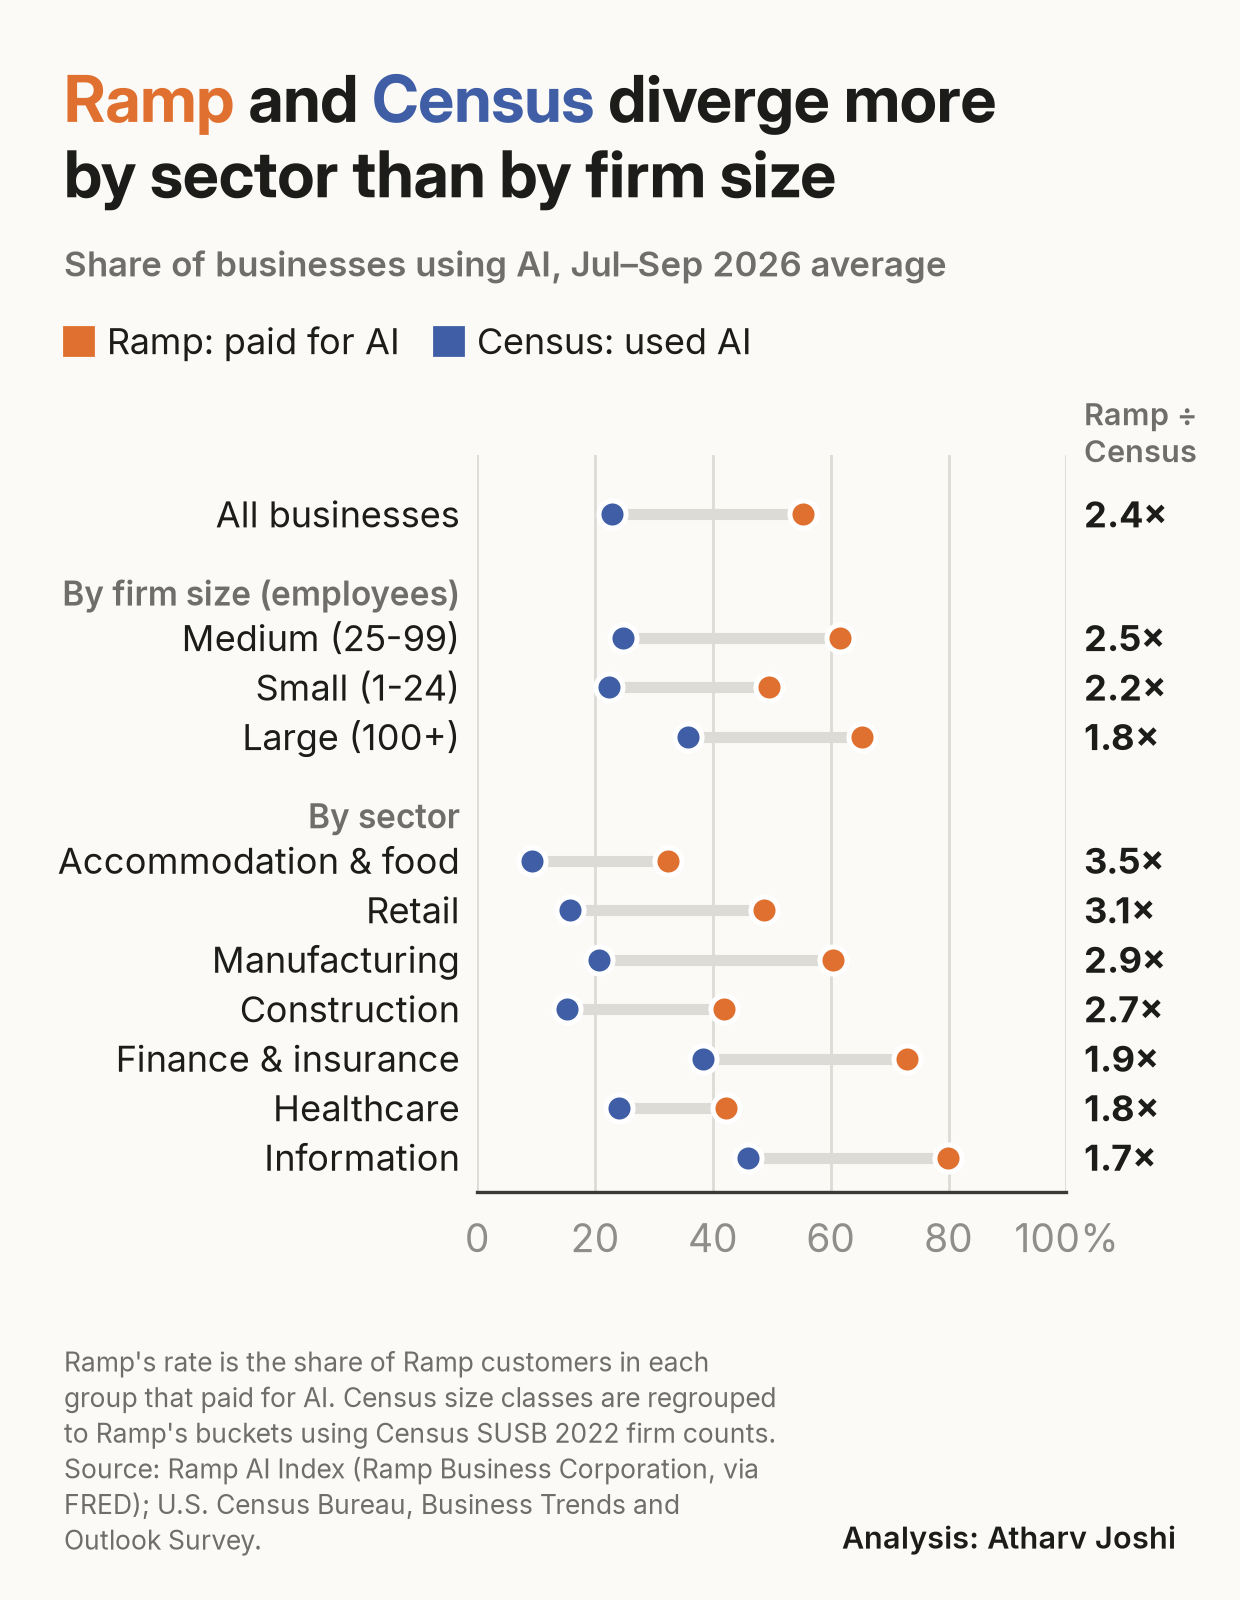
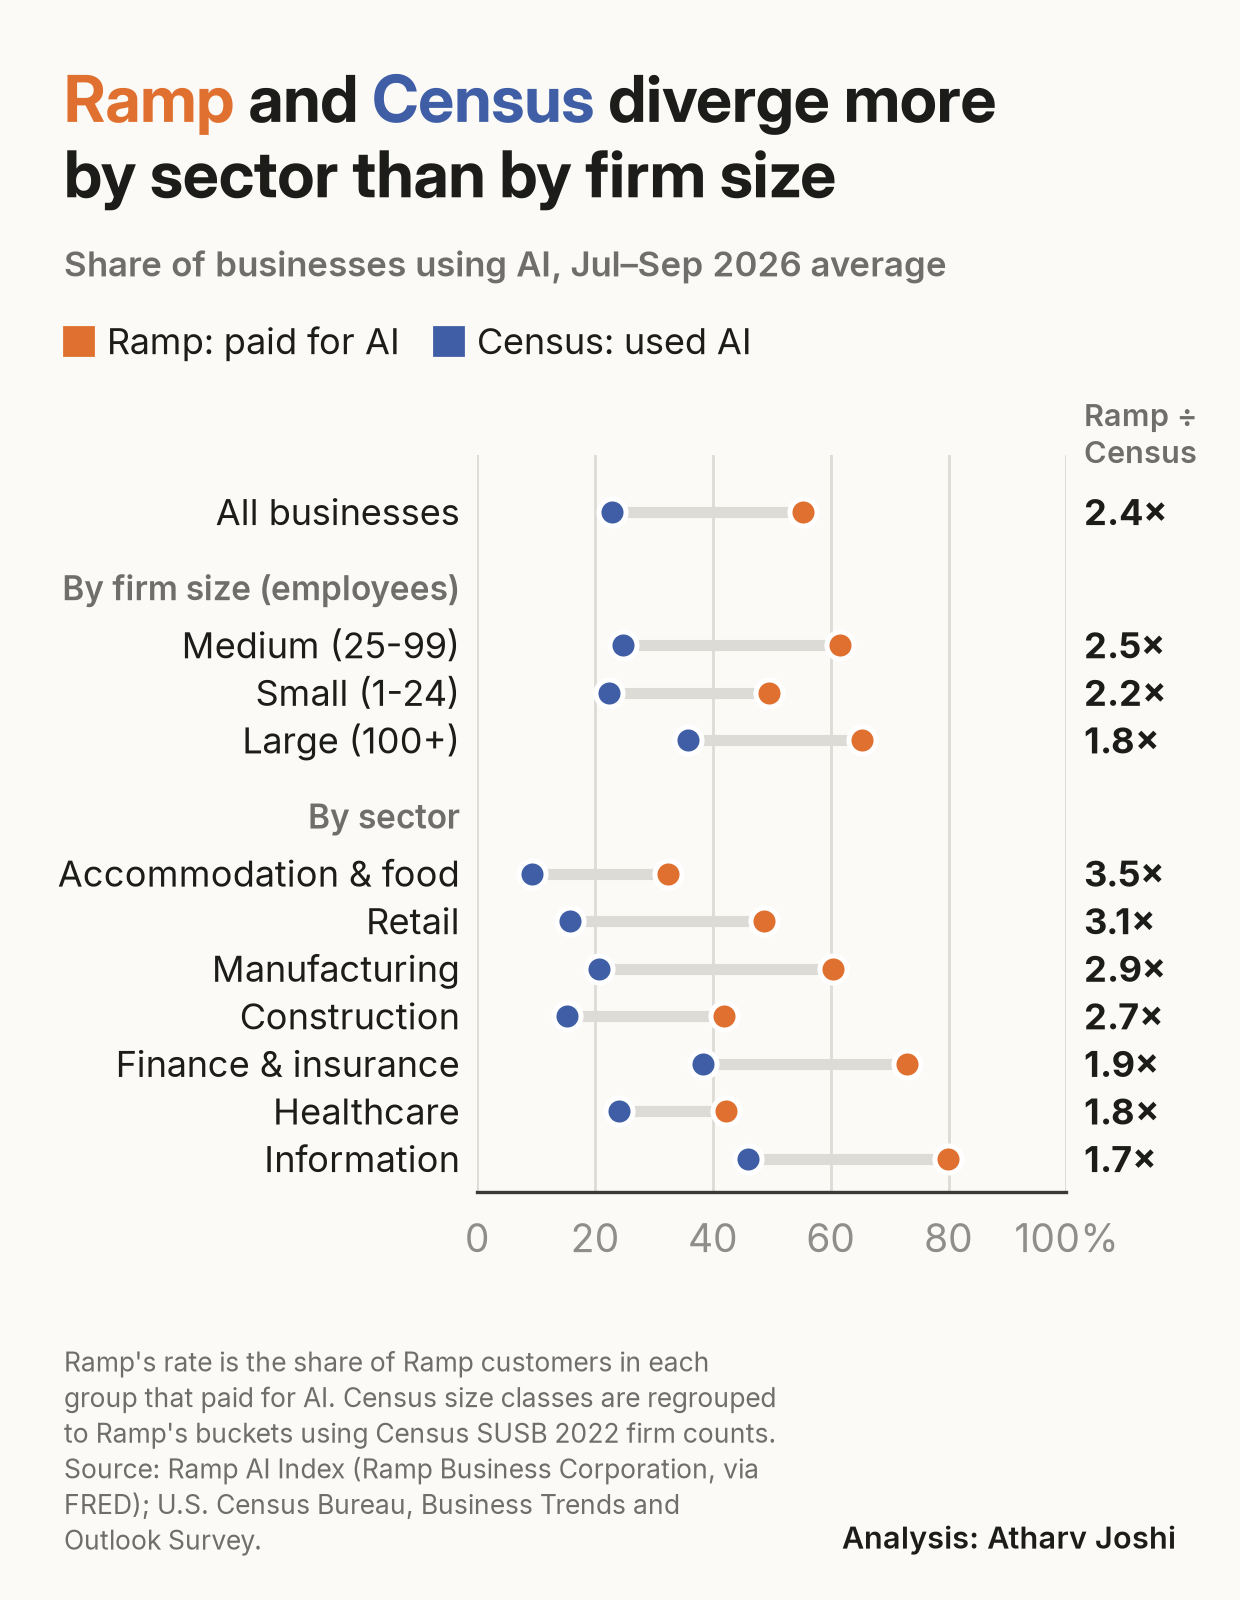
Chart 2: more space between section headers and their rows

diff --git a/analysis.py b/analysis.py
@@ -96,7 +96,7 @@ def chart_groups(comp):
         for _, r in g.iterrows():
             rows.append((y, r)); y += 1
         if head:
-            heads.append((y - 0.1, head)); y += 1.5
+            heads.append((y + 0.2, head)); y += 1.8
         else:
             y += 0.5
     m0, m1 = comp.months.iloc[0].split(" to ")
